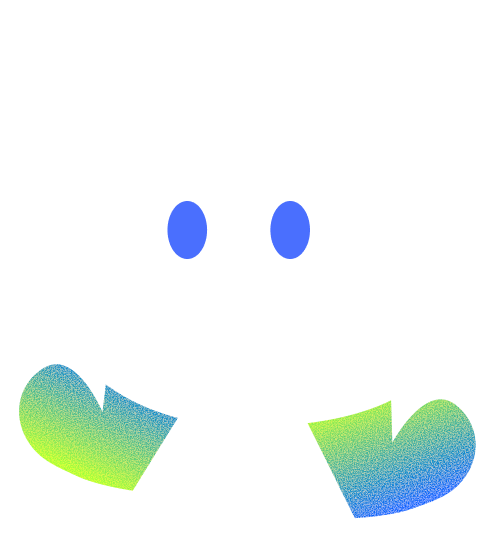
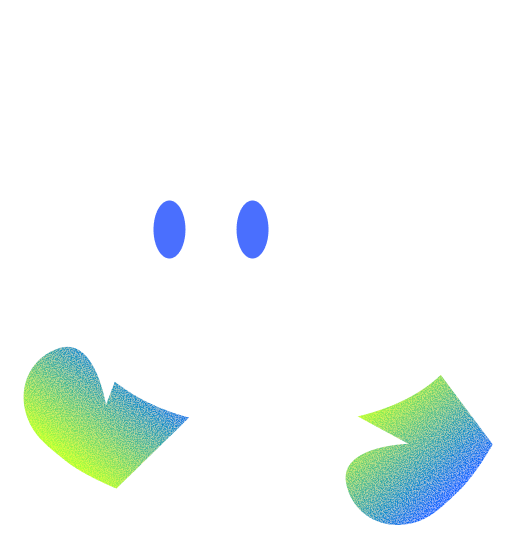
修正：樣板市集RWD、樣板卡片、關於我們圖片替換

diff --git a/final-project/src/components/TempleteCard.vue b/final-project/src/components/TempleteCard.vue
@@ -5,7 +5,10 @@
             <div class="content-container mb-3">
                 <div class="header-container">
                     <div class="card-title">AI機器學習工程師</div>
-                    <p class="card-content">王大明</p>
+                    <div class="d-flex">
+                        <div class="user-img me-1">w</div>
+                        <p class="card-content">王大明</p>
+                    </div>
                 </div>
                 <div class="card-content line-clamp-4">負責開發與佈署機器學習模型，優化演算法效能並處理大規模數據集。需具備 Python 程式能力及深度學習框架（如 PyTorch、TensorFlow）的使用經驗，致力於將 AI 技術轉化為實際的產品解決方案。</div>
             </div>
@@ -25,7 +28,7 @@
             </div>
             <div class="purchase">
                 <span style="color: var(--primary-blue-500);" class="fs-5 me-3">NT$120</span>
-                <MyButton text="立即購買" border="pill" size="size-sm"></MyButton>
+                <button><i class="fa-solid fa-cart-plus"></i></button>
             </div>
         </div>
     </div>
@@ -40,8 +43,7 @@ import MyButton from './MyButton.vue';
 <style scoped>
 .templete-card{
     width: 100%;
-    min-width: 300px;
-    /* max-width: 350px; */
+    max-width: 300px;
     border: 1px solid #757575;
     box-shadow: 1px 1px 12px #dfdfdf ;
     border-radius: 12px;
@@ -75,5 +77,28 @@ import MyButton from './MyButton.vue';
     -webkit-box-orient: vertical;  
     overflow: hidden;
     word-break: break-all; 
+}
+.user-img{
+    background-color: #6c8fe1;
+    width: 20px;
+    height: 20px;
+    border-radius: 50%;
+    display: flex;
+    align-items: center;
+    justify-content: center;
+}
+button{
+    width: 40px;
+    height: 40px;
+    border-radius: 50%;
+    background-color: var(--primary-blue-500);
+    border: none;
+    
+    i{
+        color: white;
+    }
+    &:hover{
+        background-color: var(--primary-blue-700);
+    }
 }
 </style>

diff --git a/final-project/src/views/Templete.vue b/final-project/src/views/Templete.vue
@@ -68,17 +68,17 @@ const changeSort = (item) => {
                 </div>
                 
                 <div class="content-container">
-                    <div class="row d-flex flex-column flex-md-row align-items-center align-items-md-start">
-                        <div class="col-10 col-md-6 col-lg-4 mb-4"><TempleteCard></TempleteCard></div>
-                        <div class="col-10 col-md-6 col-lg-4 mb-4"><TempleteCard></TempleteCard></div>
-                        <div class="col-10 col-md-6 col-lg-4 mb-4"><TempleteCard></TempleteCard></div>
-                        <div class="col-10 col-md-6 col-lg-4 mb-4"><TempleteCard></TempleteCard></div>
-                        <div class="col-10 col-md-6 col-lg-4 mb-4"><TempleteCard></TempleteCard></div>
-                        <div class="col-10 col-md-6 col-lg-4 mb-4"><TempleteCard></TempleteCard></div>
+                    <div class="row d-flex flex-column flex-md-row align-items-center align-items-md-start row-cols-1 row-cols-md-2 row-cols-lg-3 row-cols-xl-4 g-4">
+                        <div class="col d-flex justify-content-center"><TempleteCard></TempleteCard></div>
+                        <div class="col d-flex justify-content-center"><TempleteCard></TempleteCard></div>
+                        <div class="col d-flex justify-content-center"><TempleteCard></TempleteCard></div>
+                        <div class="col d-flex justify-content-center"><TempleteCard></TempleteCard></div>
+                        <div class="col d-flex justify-content-center"><TempleteCard></TempleteCard></div>
+                        <div class="col d-flex justify-content-center"><TempleteCard></TempleteCard></div>
                     </div>
                     
                 </div>
-                <div class="text-center">
+                <div class="text-center mt-4">
                     <MyButton text="查看更多" type="primary" border="pill" size="size-md"></MyButton>
                 </div>
             </div>

diff --git a/final-project/src/views/Search.vue b/final-project/src/views/Search.vue
@@ -173,7 +173,7 @@ const carouselLis3 = computed(() => {
                 <h2>總覽</h2>
                 <div>
                     <RouterLink to="/"><MyButton text="角色" border="square" size="size-sm" class="me-2"></MyButton></RouterLink>
-                    <RouterLink to="/skill"><MyButton text="技能" type="yellow" border="square" size="size-sm"></MyButton></RouterLink>
+                    <RouterLink to="/skill"><MyButton text="技能" type="sec" border="square" size="size-sm"></MyButton></RouterLink>
                 </div>
             </div>
             <RouterView></RouterView>

diff --git a/final-project/src/components/InputCard.vue b/final-project/src/components/InputCard.vue
@@ -7,7 +7,8 @@
             <div class="mb-3">
                 <textarea class="form-control" id="exampleFormControlTextarea1" rows="3" placeholder="說說你遇到的問題"></textarea>
             </div>
-            <div class="d-flex justify-content-end">
+            <div class="d-flex justify-content-end gap-3">
+                <MyButton text="取消" type="links" border="square" size="size-sm"></MyButton>
                 <MyButton text="送出" type="green" border="square" size="size-sm" ></MyButton>
             </div>
             

diff --git a/final-project/src/assets/scss/button.css b/final-project/src/assets/scss/button.css
@@ -2,7 +2,8 @@
 .my-btn {
     display: inline-flex;
     align-items: center; 
-    justify-content: center; 
+    justify-content: center;
+    text-decoration: none; 
     width: auto;
     border: none;
     cursor: pointer;
@@ -69,4 +70,11 @@
     border: 1px solid var(--color-neutral-900);
     transform: translateY(-2px);
 }
-
+.btn-links{
+    background-color: white;
+    color: var(--color-neutral-900);
+}
+.btn-links:hover{
+    color: var(--color-neutral-900);
+    transform: translateY(-2px);
+}

diff --git a/final-project/src/views/Search-Skill.vue b/final-project/src/views/Search-Skill.vue
@@ -16,7 +16,7 @@ const{skills} = storeToRefs(search)
                     </div>
                 </div>
                 <div class="text-center">
-                    <MyButton text="查看更多" type="yellow" border="pill" size="size-md"></MyButton>
+                    <MyButton text="查看更多" type="sec" border="square" size="size-md"></MyButton>
                 </div>
             </div>
 </template>

diff --git a/final-project/src/views/Search-Role.vue b/final-project/src/views/Search-Role.vue
@@ -18,7 +18,7 @@ const{searchs} = storeToRefs(search)
                     
                 </div>
                 <div class="text-center">
-                    <MyButton text="查看更多" type="yellow" border="pill" size="size-md"></MyButton>
+                    <MyButton text="查看更多" type="sec" border="square" size="size-md"></MyButton>
                 </div>
             </div>
 </template>
